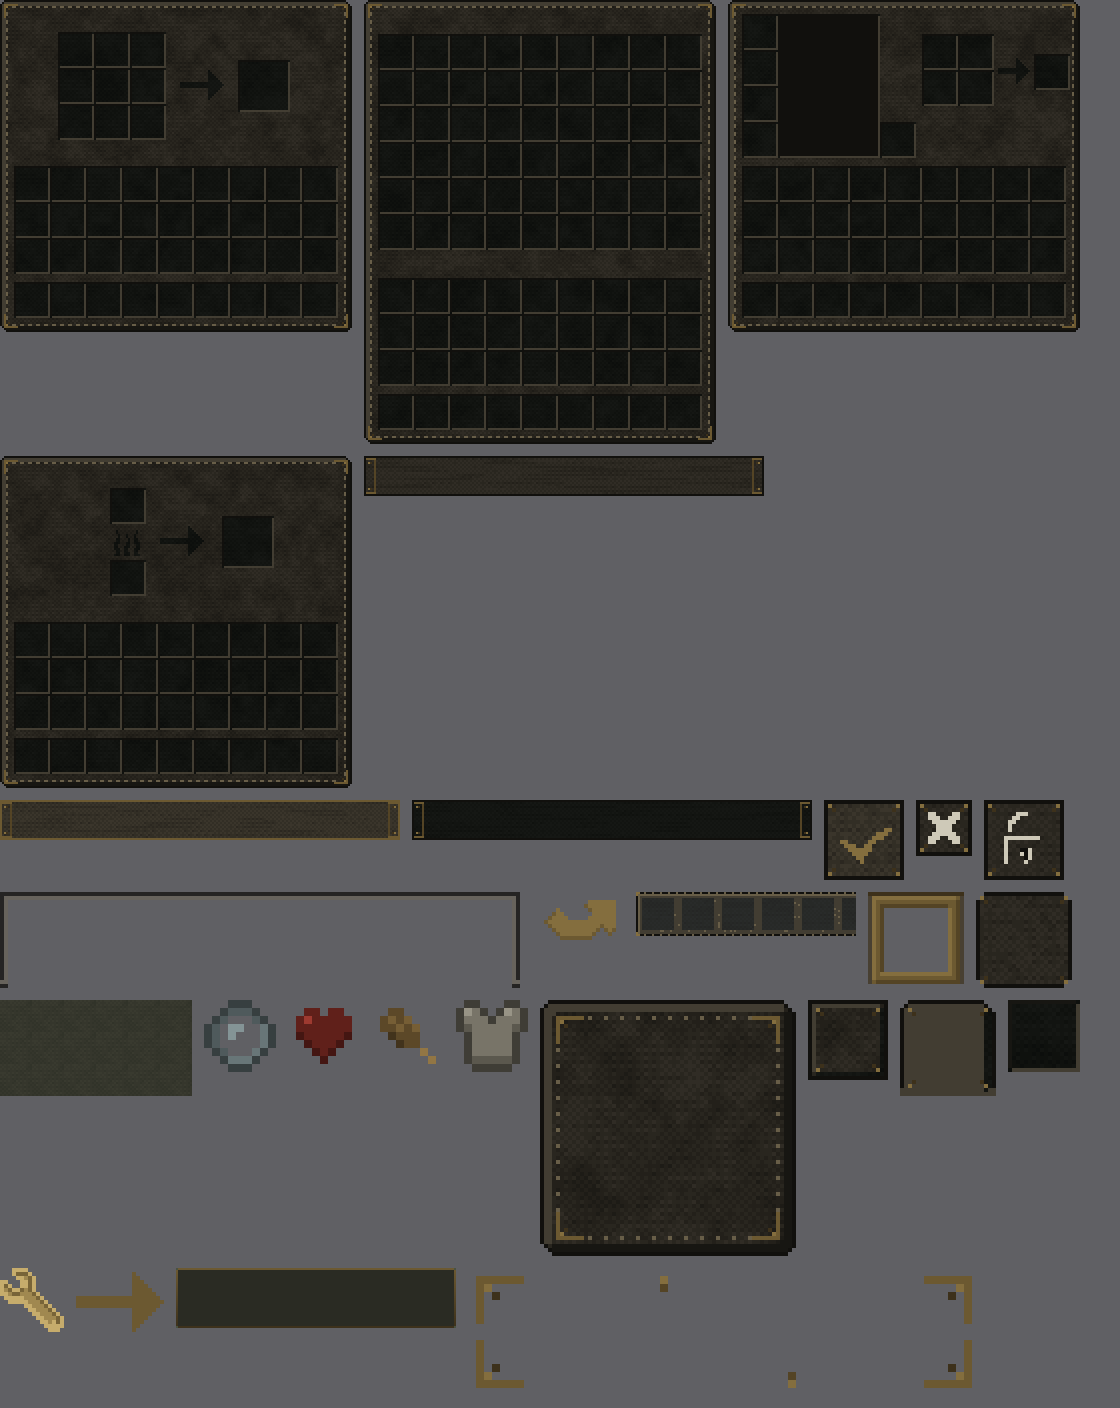
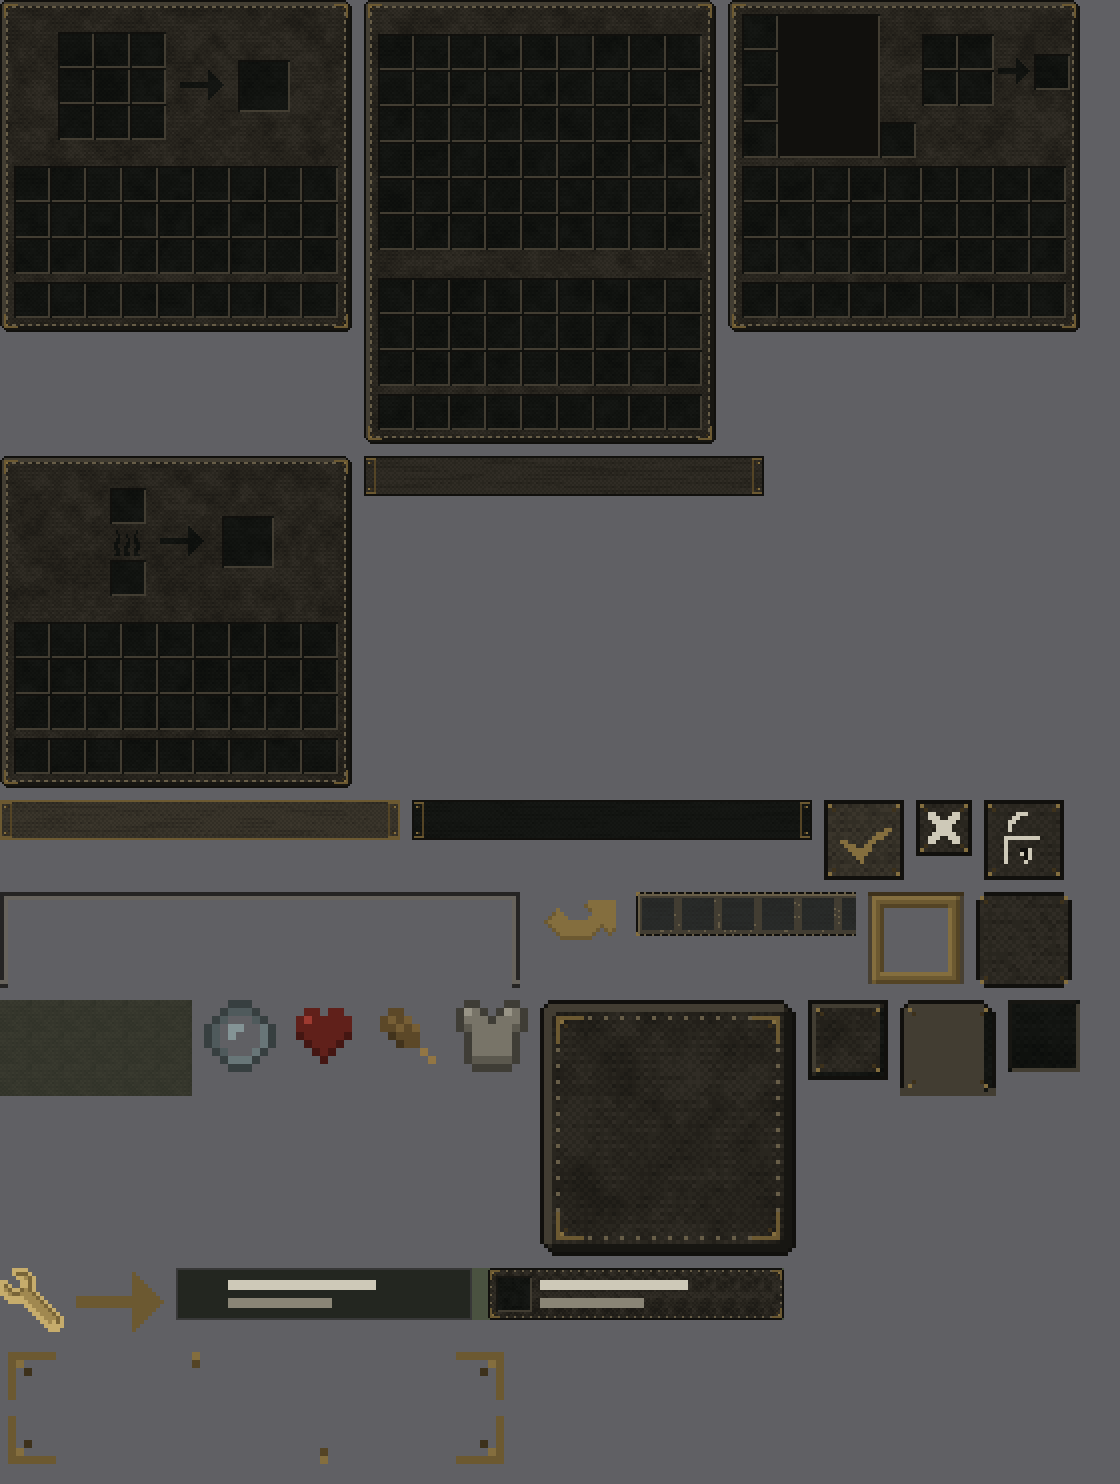
Подсказка Jade по габаритам оригинала: спрайт вместо цветов
Тема Jade умеет не только красить рамку, но и подставлять свой спрайт
подсказки. Прежние цвета давали кант, но не давали оковки, а поля мод
брал свои — макет при наведении выходил крупнее ванильного.

Теперь тема указывает на lazaret:jade/tooltip с полями 4×4, как
у встроенных тем, и на lazaret:jade/icon_slot для гнезда значка.
Текстовые цвета взяты из палитры пака.

diff --git a/tools/ui-gfx/графика.py b/tools/ui-gfx/графика.py
@@ -556,10 +556,16 @@ def одеть_jei(показать):
 
 # ── Jade ────────────────────────────────────────────────────────────
 #
-# У Jade тема — не текстура, а JSON: рамку и фон мод рисует сам, цветом
-# из файла. Пак кладёт тему в свой ассет, её имя складывается из
-# пространства имён и имени файла, и это имя надо вписать в
-# config/jade/jade.json, в overlay.activeTheme. Сама тема не включится.
+# Тема Jade — JSON, но рамку мод умеет брать не только цветом: в поле
+# `sprite` кладётся обычный GUI-спрайт, и Jade режет его девятислойно,
+# как игра — ванильную кнопку. Поэтому подсказка одевается той же
+# кожей, тем же стежком и теми же латунными скобами, что окна и
+# подложки JEI. Одной перекраски фона мало: силуэт остаётся
+# джейдовским, и подсказка читается как чужая вставка в паке.
+#
+# Имя темы складывается из пространства имён и имени файла, и его надо
+# вписать в config/jade/jade.json, в overlay.activeTheme. Сама тема
+# не включится.
 
 ТЕМА_JADE = "lazaret:lazaret"
 # Строчку в конфиге Jade переписывает своей рукой: один раз она уже
@@ -567,56 +573,179 @@ def одеть_jei(показать):
 # встроенной «тёмной» — если мод снова собьёт выбор на неё, он собьёт
 # его на нашу же кожу. Вернуть настоящую тёмную можно, выключив пак.
 ТЕМА_ПОВЕРХ = "jade:dark"
+СПРАЙТ_ПЛАШКИ = "lazaret:jade/tooltip"
+СПРАЙТ_СЛОТА = "lazaret:jade/icon_slot"
+# Сторона плашки и поле нарезки. Средняя полоса — 24 − 6 × 2 = 12
+# пикселей, ровно три шага стежка: при размножении шов не съезжает.
+# Больше брать нельзя: подсказка Jade — это полоска в 26 пикселей
+# высотой, и поле нарезки в восемь съедало её целиком.
+ПЛАШКА, НАРЕЗКА = 24, 6
+СЛОТ = 18
 
 
 def _шестнадцать(цвет):
     return "#%02X%02X%02X" % цвет
 
 
-def макет_jade(тема):
-    """Как Jade нарисует подсказку по этой теме — от руки, для листа.
+def положить_спрайт(им, путь, мета=None):
+    """Спрайт в наше пространство имён: lazaret:<путь> → файл и мета."""
+    цель = ПАК / "assets/lazaret/textures/gui/sprites" / (путь + ".png")
+    цель.parent.mkdir(parents=True, exist_ok=True)
+    им.save(цель)
+    if мета is not None:
+        цель.with_suffix(".png.mcmeta").write_text(
+            json.dumps(мета, indent=2), encoding="utf-8")
 
-    Настоящую выдать неоткуда: мод рисует её сам и только в игре. Здесь
-    повторено ровно то, что он делает по теме, — заливка фоном с
-    прозрачностью из его конфига и рамка в один пиксель по углам
-    градиента. Судить по этому квадрату можно только о цвете.
+
+def кожей(им, сид, палитра=КОЖА):
+    """Залить холст кожей с зерном — тем же полем шума, что и панели."""
+    rnd = random.Random(сид)
+    крупно = _лз.поле_шума(rnd, им.size, 6, 40, 210)
+    мелко = _лз.поле_шума(rnd, им.size, 16, 60, 195)
+    px = им.load()
+    for y in range(им.height):
+        for x in range(им.width):
+            v = (крупно[x, y] * 0.5 + мелко[x, y] * 0.5 - 90) / 105 * 3.0
+            px[x, y] = _лз.тон(палитра, v, x, y) + (255,)
+    return им
+
+
+def плашка_jade():
+    """Подложка подсказки: кожа, тёмная фаска, стежок и скобы в углах."""
+    им = кожей(Image.new("RGBA", (ПЛАШКА, ПЛАШКА)), 20260918)
+    px = им.load()
+    for i in range(ПЛАШКА):
+        px[i, 0] = px[i, ПЛАШКА - 1] = КРАЙ + (255,)
+        px[0, i] = px[ПЛАШКА - 1, i] = КРАЙ + (255,)
+    for x, y in ((0, 0), (ПЛАШКА - 1, 0), (0, ПЛАШКА - 1), (ПЛАШКА - 1, ПЛАШКА - 1)):
+        px[x, y] = (0, 0, 0, 0)          # скруглённый угол, как у подложек JEI
+    оковать_плитку(им, отступ=1, скоба=5)
+    return им
+
+
+def слот_jade():
+    """Гнездо под значок блока — та же врезка, что дно слота в окнах."""
+    им = Image.new("RGBA", (СЛОТ, СЛОТ), (0, 0, 0, 0))
+    rnd = random.Random(20260919)
+    крупно = _лз.поле_шума(rnd, (СЛОТ, СЛОТ), 5, 40, 210)
+    мелко = _лз.поле_шума(rnd, (СЛОТ, СЛОТ), 12, 60, 195)
+    _лз.врезка(им.load(), 0, 0, СЛОТ, СЛОТ, ОКНО_Т, крупно, мелко)
+    return им
+
+
+def тема_jade():
+    return {
+        "version": 100,
+        "tooltipStyle": {
+            "sprite": СПРАЙТ_ПЛАШКИ,
+            # Поле под текст: [верх, низ, слева, справа]. Ровно то же,
+            # что у Jade по умолчанию: подсказка висит на экране
+            # постоянно и раздуваться права не имеет.
+            "padding": [4, 4, 4, 4],
+        },
+        "iconSlotSprite": СПРАЙТ_СЛОТА,
+        "iconSlotInflation": 1,
+        "text": {
+            "colors": {
+                "normal": _шестнадцать(_лз.КОСТЬ_Т),
+                "info": _шестнадцать(ЛАТУНЬ[0]),
+                "title": _шестнадцать(КОСТЬ),
+                "success": _шестнадцать(ВОДА[0]),
+                "warning": _шестнадцать(ХЛЕБ[0]),
+                "danger": _шестнадцать(КРОВЬ[0]),
+                "failure": _шестнадцать(КРОВЬ[1]),
+            },
+            # Тень ванильного текста мажет костяной по коже, а кант
+            # плашки и так отделяет надпись от мира.
+            "shadow": False,
+            "modNameStyle": {"color": _шестнадцать(ЛАТУНЬ[2]), "italic": True},
+            "itemAmountColor": _шестнадцать(КОСТЬ),
+        },
+        # Плотность держит сама текстура: прозрачность из конфига
+        # съедала бы и зерно кожи, и стежок.
+        "changeOpacity": 1.0,
+    }
+
+
+def _девятью(им, ш, в, поле):
+    """Собрать спрайт на размер так же, как его соберёт игра.
+
+    Углы несжимаемы, края и середина размножаются плитками. Нужно
+    только для контрольного листа — в игре это делает сам Minecraft.
     """
-    ш, в = 140, 30
-    фон = тема["tooltipStyle"]["backgroundColor"]
-    рамка = [tuple(int(ц[i:i + 2], 16) for i in (1, 3, 5))
-             for ц in тема["tooltipStyle"]["borderColor"]]
-    мир = Image.new("RGBA", (ш, в), (74, 82, 64, 255))
-    слой = Image.new("RGBA", (ш, в),
-                     tuple(int(фон[i:i + 2], 16) for i in (1, 3, 5)) + (179,))
-    px = слой.load()
+    с = им.width
+    сер = с - поле * 2
+    вых = Image.new("RGBA", (ш, в), (0, 0, 0, 0))
+
+    def плиткой(кус, дx, дy, дш, дв):
+        for y in range(дy, дy + дв, кус.height):
+            for x in range(дx, дx + дш, кус.width):
+                вых.alpha_composite(
+                    кус.crop((0, 0, min(кус.width, дx + дш - x),
+                              min(кус.height, дy + дв - y))), (x, y))
+
+    гx, гy = ш - поле, в - поле
+    вых.alpha_composite(им.crop((0, 0, поле, поле)), (0, 0))
+    вых.alpha_composite(им.crop((с - поле, 0, с, поле)), (гx, 0))
+    вых.alpha_composite(им.crop((0, с - поле, поле, с)), (0, гy))
+    вых.alpha_composite(им.crop((с - поле, с - поле, с, с)), (гx, гy))
+    плиткой(им.crop((поле, 0, поле + сер, поле)), поле, 0, ш - поле * 2, поле)
+    плиткой(им.crop((поле, с - поле, поле + сер, с)), поле, гy, ш - поле * 2, поле)
+    плиткой(им.crop((0, поле, поле, поле + сер)), 0, поле, поле, в - поле * 2)
+    плиткой(им.crop((с - поле, поле, с, поле + сер)), гx, поле, поле, в - поле * 2)
+    плиткой(им.crop((поле, поле, поле + сер, поле + сер)),
+            поле, поле, ш - поле * 2, в - поле * 2)
+    return вых
+
+
+def макет_jade(плашка, слот):
+    """Как ляжет подсказка в игре — для контрольного листа.
+
+    Настоящую выдать неоткуда: рисует её мод и только в игре. Зато
+    размеры считаются по его же правилам — поле темы плюс значок с
+    гнездом, — и высота выходит ровно та же, что у встроенной тёмной
+    темы: 4 + 18 + 4 = 26 пикселей. Рядом для сверки положен и сам
+    оригинал, рамкой в пиксель.
+    """
+    поле = тема_jade()["tooltipStyle"]["padding"][0]
+    ш, в = 148, поле * 2 + СЛОТ
+    мир = Image.new("RGBA", (ш * 2 + 8, в), (74, 82, 64, 255))
+
+    # слева — оригинал: заливка и рамка в пиксель, как рисует Jade сам
+    ориг = Image.new("RGBA", (ш, в), (19, 19, 19, 179))
+    px = ориг.load()
     for x in range(ш):
-        д = x / (ш - 1)
-        for y, верх, низ in ((0, рамка[0], рамка[1]), (в - 1, рамка[2], рамка[3])):
-            px[x, y] = tuple(int(верх[i] + (низ[i] - верх[i]) * д) for i in range(3)) + (255,)
+        px[x, 0] = px[x, в - 1] = (56, 56, 56, 255)
     for y in range(в):
-        д = y / (в - 1)
-        for x, верх, низ in ((0, рамка[0], рамка[2]), (ш - 1, рамка[1], рамка[3])):
-            px[x, y] = tuple(int(верх[i] + (низ[i] - верх[i]) * д) for i in range(3)) + (255,)
-    for x, y in ((0, 0), (ш - 1, 0), (0, в - 1), (ш - 1, в - 1)):
-        px[x, y] = (0, 0, 0, 0)          # скруглённый угол
-    мир.alpha_composite(слой)
+        px[0, y] = px[ш - 1, y] = (56, 56, 56, 255)
+    мир.alpha_composite(ориг)
+
+    наш = _девятью(плашка, ш, в, НАРЕЗКА)
+    наш.alpha_composite(слот, (поле, поле))
+    мир.alpha_composite(наш, (ш + 8, 0))
+
+    for x0 in (0, ш + 8):
+        мир.alpha_composite(Image.new("RGBA", (74, 5), КОСТЬ + (255,)),
+                            (x0 + поле + СЛОТ + 4, поле + 2))
+        мир.alpha_composite(Image.new("RGBA", (52, 5), _лз.КОСТЬ_Т + (255,)),
+                            (x0 + поле + СЛОТ + 4, поле + 11))
     return мир
 
 
 def одеть_jade(показать=None):
-    тема = {
-        "version": 100,
-        "tooltipStyle": {
-            "backgroundColor": _шестнадцать(КОЖА[3]),
-            # Четыре угла градиента: сверху латунь светлее, снизу темнее —
-            # так же, как у встроенных тем мода.
-            "borderColor": [_шестнадцать(ЛАТУНЬ[1]), _шестнадцать(ЛАТУНЬ[1]),
-                            _шестнадцать(ЛАТУНЬ[3]), _шестнадцать(ЛАТУНЬ[3])],
-        },
-        "changeRoundCorner": True,
-    }
+    плашка, слот = плашка_jade(), слот_jade()
+    положить_спрайт(плашка, "jade/tooltip", {"gui": {"scaling": {
+        "type": "nine_slice", "width": ПЛАШКА, "height": ПЛАШКА,
+        "border": НАРЕЗКА}}})
+    # Гнездо кладётся без меты нарезки намеренно: Jade складывает
+    # iconSlotInflation с полем nine_slice и отступ вокруг значка
+    # вырастает вдвое-втрое. Растяжение гнезду не вредит — оно всегда
+    # рисуется ровно 18 × 18, под значок 16 с полем в пиксель.
+    положить_спрайт(слот, "jade/icon_slot")
+    print("  плашка и гнездо значка")
+    тема = тема_jade()
     if показать is not None:
-        показать.append(макет_jade(тема))
+        показать.append(макет_jade(плашка, слот))
     for полное in (ТЕМА_JADE, ТЕМА_ПОВЕРХ):
         прост, имя = полное.split(":")
         цель = ПАК / ("assets/%s/jade_themes/%s.json" % (прост, имя))
